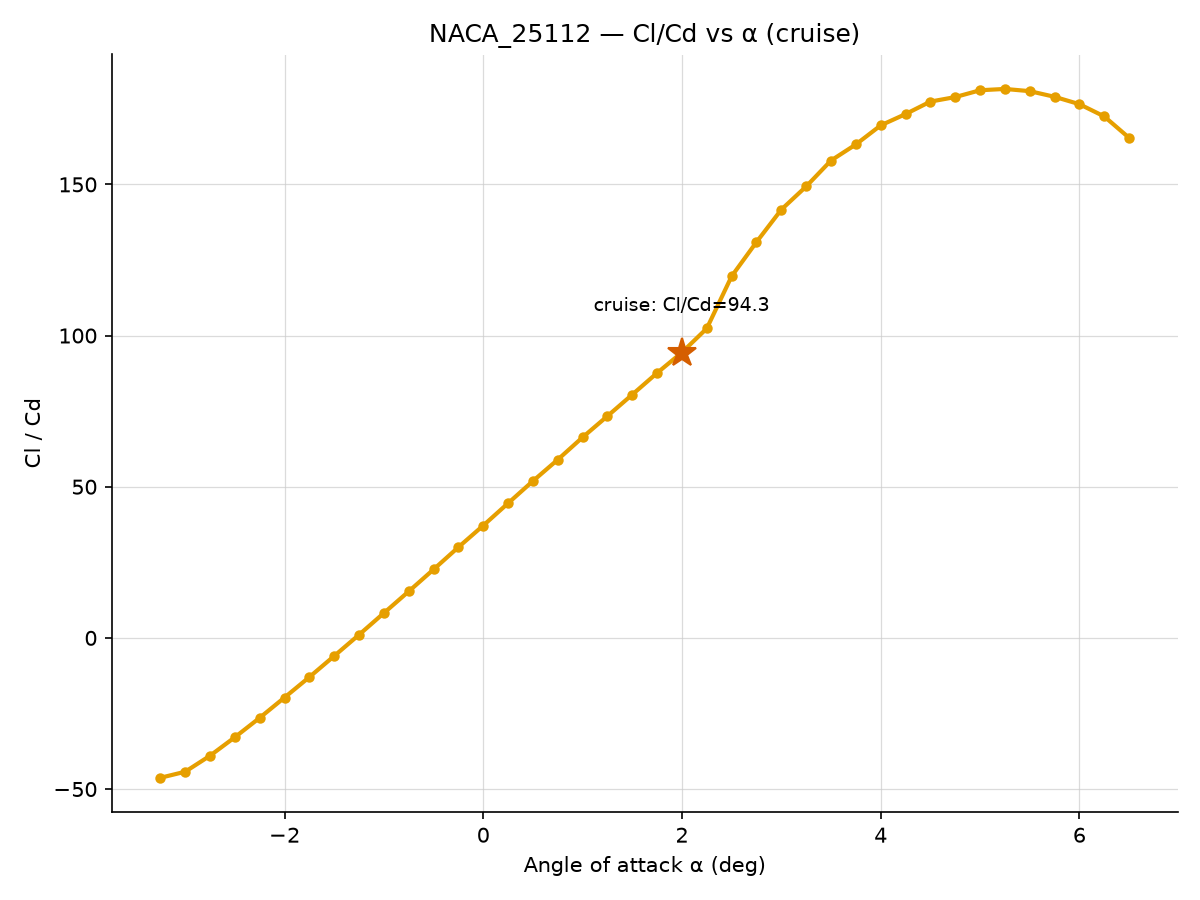
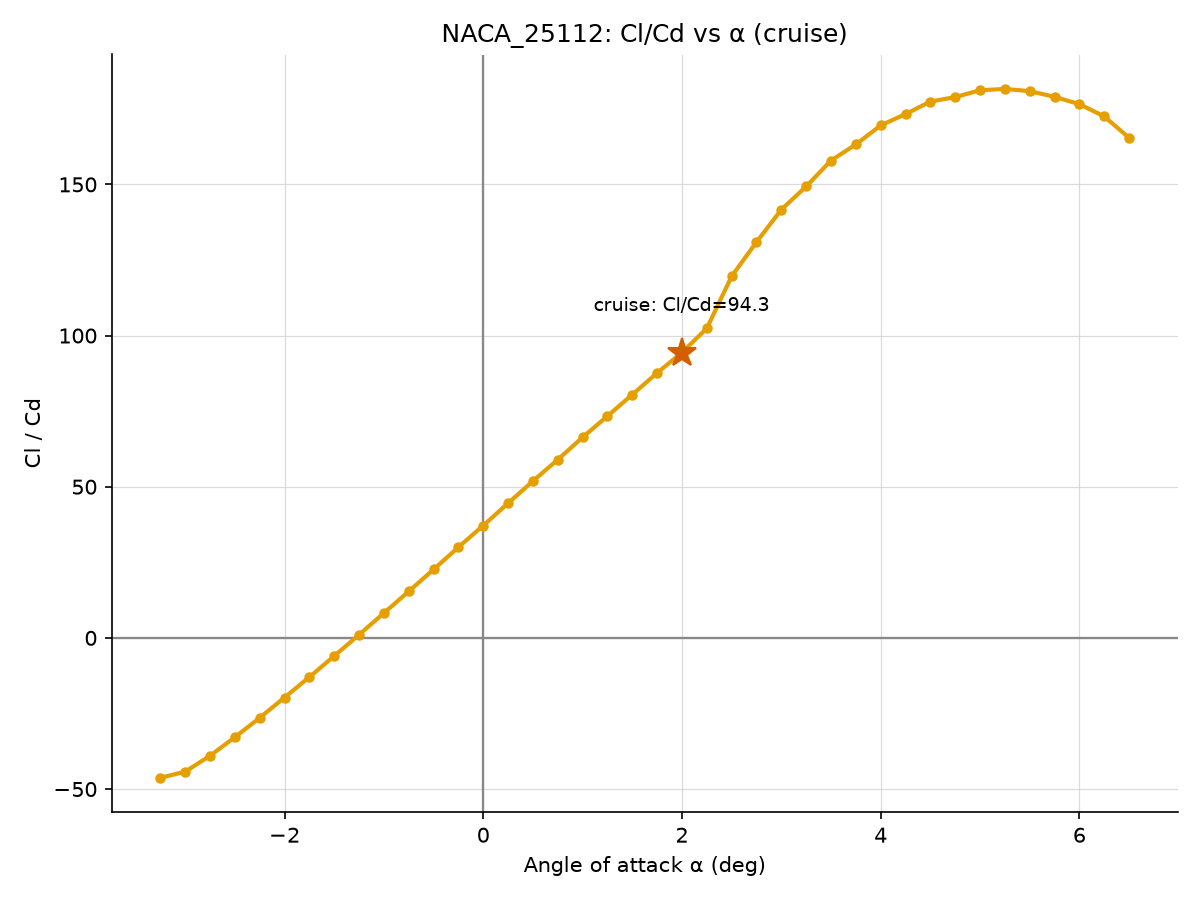
make_plots.py: emphasize zero-lines, drop em dashes, fix remaining text-crossed-by-data cases
Three changes:

1. Emphasized x=0/y=0 reference lines (darker, thicker than the regular
   gridlines) via _style_axes, since a plain gridline at zero reads
   identically to every other gridline -- easy to miss when the sign of
   Cl/Cm/Cp/alpha is exactly what matters. Disabled (zero_lines=False)
   for the two comparison bar charts, whose x-axis is categorical, not a
   physical quantity -- verified directly, a universal axvline(0) there
   rendered as a stray vertical line poking through the first bar group.

2. Replaced the em dash in every plot title with a colon.

3. Fixed the remaining crossed-text cases the previous round missed,
   found by re-reviewing every flagged plot individually:
   - cl_vs_alpha_cruise's "cruise" annotation (not the "stall" one, which
     was already fixed) still used a small diagonal offset that ran
     directly into the rising curve -- verified on every airfoil.
     Repositioned up-and-left, right-aligned, clear of both the curve and
     the vertical dashed cruise-alpha line the label sits next to.
   - mcrit_sweep's legend at "lower left" sat where the descending
     Cp_crit curve passes through; moved to "upper left", the one corner
     consistently empty across all four airfoils' curve shapes.
   - Legend fontsize reduced to 8 across every plot with a legend.

Every one of the 12 flagged plots individually re-viewed after the fix
(not assumed fixed from the code change alone), plus a full sweep of the
[…]

Changed region(s): [[0.3392, 0.0, 0.7092, 0.0622], [0.4008, 0.6844, 0.4317, 0.7156]]

diff --git a/wp2/scripts/make_plots.py b/wp2/scripts/make_plots.py
@@ -63,12 +63,29 @@ def airfoil_colors() -> dict[str, str]:
     return dict(zip(stems, _PALETTE))
 
 
-def _style_axes(ax: "plt.Axes") -> None:
-    """Recessive gridlines behind the data, no chart-junk spines."""
+def _style_axes(ax: "plt.Axes", *, zero_lines: bool = True) -> None:
+    """Recessive gridlines behind the data, no chart-junk spines, and an
+    emphasized reference line at x=0/y=0 wherever that value falls within
+    the plotted range -- a plain gridline at zero reads identically to
+    every other gridline, easy to miss when the sign of a value (Cl, Cm,
+    Cp, alpha) is exactly the thing that matters. axhline/axvline use a
+    blended transform (data y or x, axes-fraction for the other axis) so
+    they track the final autoscaled view regardless of being added here,
+    before any real data is plotted.
+
+    zero_lines=False for the two comparison bar charts: their x-axis is
+    categorical (one position per criterion/airfoil, not a physical
+    quantity), so an "x=0" reference line is meaningless there -- verified
+    directly, it rendered as a stray vertical line poking through the
+    first bar group.
+    """
     ax.grid(True, color="#cccccc", linewidth=0.6, alpha=0.7, zorder=0)
     ax.set_axisbelow(True)
     ax.spines["top"].set_visible(False)
     ax.spines["right"].set_visible(False)
+    if zero_lines:
+        ax.axhline(0, color="#888888", linewidth=1.1, zorder=1)
+        ax.axvline(0, color="#888888", linewidth=1.1, zorder=1)
 
 
 def _read_polar(stem: str, condition: str) -> pd.DataFrame:
@@ -126,10 +143,16 @@ def plot_cl_vs_alpha_cruise(stem: str, color: str, out_dir: Path) -> None:
     _plot_nonconverged_markers(ax, cruise, converged)
 
     ax.axvline(op["alpha"], color="#555555", linestyle="--", linewidth=1, zorder=2)
+    # Up and to the left, right-aligned: the curve is rising through this
+    # point (so "up" alone isn't enough -- a small offset to the right
+    # runs into the curve catching back up, verified directly), and the
+    # dashed vertical cruise-alpha line passes through this exact x, so
+    # centering on it would put the line through the text. Left is where
+    # the rising curve is furthest below the label and clear of the line.
     ax.annotate(
         f"cruise α={op['alpha']:.2f}°\nCl={config.CRUISE.cl_normal:.3f}",
-        xy=(op["alpha"], config.CRUISE.cl_normal), xytext=(8, -18),
-        textcoords="offset points", fontsize=9,
+        xy=(op["alpha"], config.CRUISE.cl_normal), xytext=(-15, 20),
+        textcoords="offset points", fontsize=9, ha="right",
     )
     ax.plot([stall_alpha], [cl_max], marker="*", markersize=14, color="#D55E00", zorder=5)
     # always label below the marker: it sits at the curve's Cl peak, which
@@ -142,9 +165,9 @@ def plot_cl_vs_alpha_cruise(stem: str, color: str, out_dir: Path) -> None:
 
     ax.set_xlabel("Angle of attack α (deg)")
     ax.set_ylabel("Cl")
-    ax.set_title(f"{stem} — Cl vs α (cruise, M_n={config.CRUISE.mach_normal:.3f})")
+    ax.set_title(f"{stem}: Cl vs α (cruise, M_n={config.CRUISE.mach_normal:.3f})")
     ax.margins(y=0.15)
-    ax.legend(loc="lower right", frameon=False)
+    ax.legend(loc="lower right", frameon=False, fontsize=8)
     fig.tight_layout()
     fig.savefig(out_dir / "cl_vs_alpha_cruise.png", dpi=150)
     plt.close(fig)
@@ -184,7 +207,7 @@ def plot_cd_and_drag_polar(stem: str, color: str, out_dir: Path) -> None:
     ax_polar.set_ylabel("Cl")
     ax_polar.set_title("Drag polar (Cl vs Cd)")
 
-    fig.suptitle(f"{stem} — cruise drag characteristics (M_n={config.CRUISE.mach_normal:.3f})")
+    fig.suptitle(f"{stem}: cruise drag characteristics (M_n={config.CRUISE.mach_normal:.3f})")
     fig.tight_layout()
     fig.savefig(out_dir / "cd_and_drag_polar.png", dpi=150)
     plt.close(fig)
@@ -214,7 +237,7 @@ def plot_cl_cd_vs_alpha(stem: str, color: str, out_dir: Path) -> None:
     )
     ax.set_xlabel("Angle of attack α (deg)")
     ax.set_ylabel("Cl / Cd")
-    ax.set_title(f"{stem} — Cl/Cd vs α (cruise)")
+    ax.set_title(f"{stem}: Cl/Cd vs α (cruise)")
     fig.tight_layout()
     fig.savefig(out_dir / "cl_cd_vs_alpha.png", dpi=150)
     plt.close(fig)
@@ -236,10 +259,9 @@ def plot_cm_vs_alpha(stem: str, color: str, out_dir: Path) -> None:
         f"cruise: Cm={op['cm']:.4f}", xy=(op["alpha"], op["cm"]),
         xytext=(0, 16), textcoords="offset points", fontsize=9, ha="center",
     )
-    ax.axhline(0.0, color="#999999", linewidth=1, linestyle=":", zorder=1)
     ax.set_xlabel("Angle of attack α (deg)")
     ax.set_ylabel("Cm")
-    ax.set_title(f"{stem} — pitching moment vs α (cruise)")
+    ax.set_title(f"{stem}: pitching moment vs α (cruise)")
     fig.tight_layout()
     fig.savefig(out_dir / "cm_vs_alpha.png", dpi=150)
     plt.close(fig)
@@ -255,7 +277,7 @@ def plot_cp_distribution(stem: str, color: str, out_dir: Path) -> None:
     ax.set_xlabel("x / c")
     ax.set_ylabel("Cp")
     ax.set_title(
-        f"{stem} — Cp distribution at M={mcrit_sweep.BASELINE_MACH:.2f}, "
+        f"{stem}: Cp distribution at M={mcrit_sweep.BASELINE_MACH:.2f}, "
         f"Cl_n={config.CRUISE.cl_normal:.3f} (cruise operating Cl)"
     )
     fig.tight_layout()
@@ -288,8 +310,12 @@ def plot_mcrit_sweep(stem: str, color: str, out_dir: Path) -> None:
                     textcoords="offset points", fontsize=9)
     ax.set_xlabel("Mach")
     ax.set_ylabel("Cp")
-    ax.set_title(f"{stem} — Mach-critical determination")
-    ax.legend(loc="lower left", frameon=False)
+    ax.set_title(f"{stem}: Mach-critical determination")
+    # Upper left, not lower left: both curves start well below Cp=0 at the
+    # low-Mach end (Cp_crit around -7, Cp_min around -1.5), so that corner
+    # is consistently empty -- lower left sits right where the descending
+    # Cp_crit dashed curve passes through, verified directly.
+    ax.legend(loc="upper left", frameon=False, fontsize=8)
     fig.tight_layout()
     fig.savefig(out_dir / "mcrit_sweep.png", dpi=150)
     plt.close(fig)
@@ -321,8 +347,8 @@ def plot_landing_cl_vs_alpha(stem: str, color: str, out_dir: Path) -> None:
     ax.margins(y=0.15)
     ax.set_xlabel("Angle of attack α (deg)")
     ax.set_ylabel("Cl")
-    ax.set_title(f"{stem} — landing polar (M_n={config.LANDING.mach_normal:.3f})")
-    ax.legend(loc="lower right", frameon=False)
+    ax.set_title(f"{stem}: landing polar (M_n={config.LANDING.mach_normal:.3f})")
+    ax.legend(loc="lower right", frameon=False, fontsize=8)
     fig.tight_layout()
     fig.savefig(out_dir / "landing_cl_vs_alpha.png", dpi=150)
     plt.close(fig)
@@ -351,7 +377,7 @@ def plot_criteria_breakdown(colors: dict[str, str], out_dir: Path) -> None:
     x = range(len(criteria))
 
     fig, ax = plt.subplots(figsize=(11, 6))
-    _style_axes(ax)
+    _style_axes(ax, zero_lines=False)
     for i, airfoil in enumerate(airfoils):
         offsets = [xi - group_width / 2 + bar_width * (i + 0.5) for xi in x]
         values = [detail.loc[airfoil, f"{c}_weighted"] for c in criteria]
@@ -360,8 +386,8 @@ def plot_criteria_breakdown(colors: dict[str, str], out_dir: Path) -> None:
     ax.set_xticks(list(x))
     ax.set_xticklabels([_CRITERION_LABELS[c] for c in criteria])
     ax.set_ylabel("Weighted contribution")
-    ax.set_title("WP2 scorecard — weighted contribution per criterion")
-    ax.legend(loc="upper right", frameon=False, ncol=2)
+    ax.set_title("WP2 scorecard: weighted contribution per criterion")
+    ax.legend(loc="upper right", frameon=False, ncol=2, fontsize=8)
     fig.tight_layout()
     fig.savefig(out_dir / "criteria_breakdown.png", dpi=150)
     plt.close(fig)
@@ -373,7 +399,7 @@ def plot_total_score(colors: dict[str, str], out_dir: Path) -> None:
     airfoils = list(detail.index)
 
     fig, ax = plt.subplots(figsize=(8, 6))
-    _style_axes(ax)
+    _style_axes(ax, zero_lines=False)
     bars = ax.bar(
         airfoils, detail["total_score"], color=[colors[a] for a in airfoils], zorder=3,
     )
@@ -383,7 +409,7 @@ def plot_total_score(colors: dict[str, str], out_dir: Path) -> None:
             xytext=(0, 4), textcoords="offset points", ha="center", fontsize=10,
         )
     ax.set_ylabel("Total weighted score")
-    ax.set_title("WP2 scorecard — total score, ranked")
+    ax.set_title("WP2 scorecard: total score, ranked")
     ax.set_ylim(0, max(detail["total_score"]) * 1.15)
     fig.tight_layout()
     fig.savefig(out_dir / "total_score.png", dpi=150)
